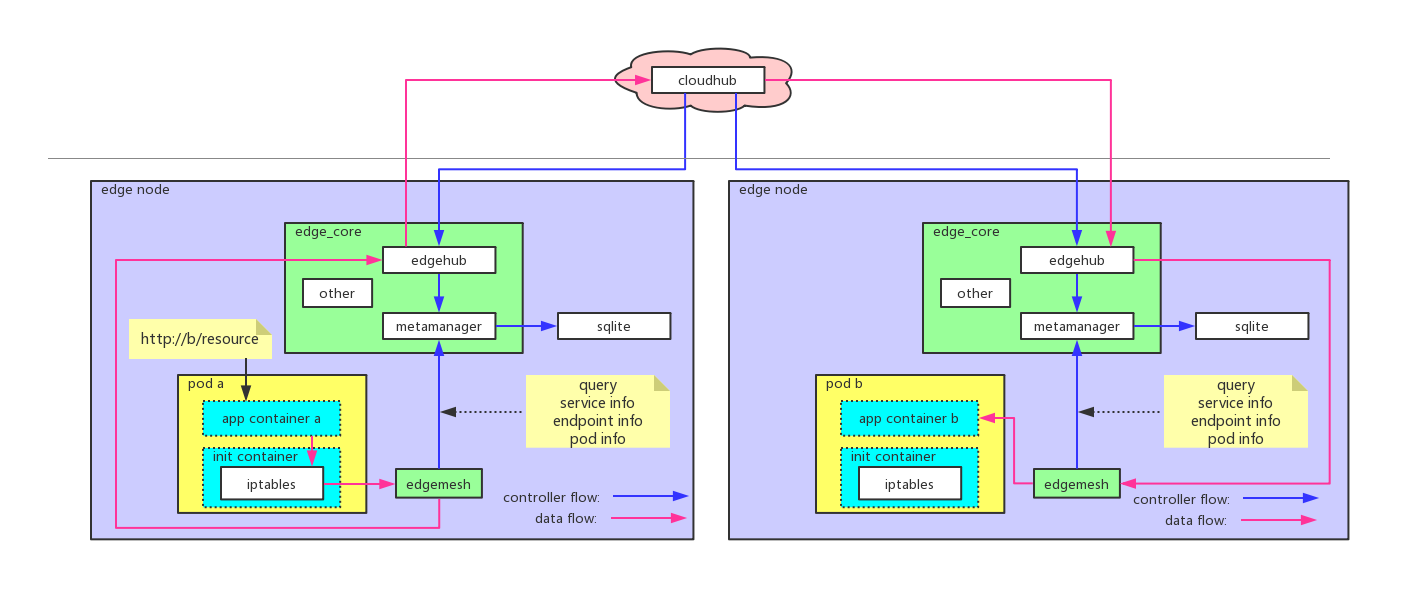
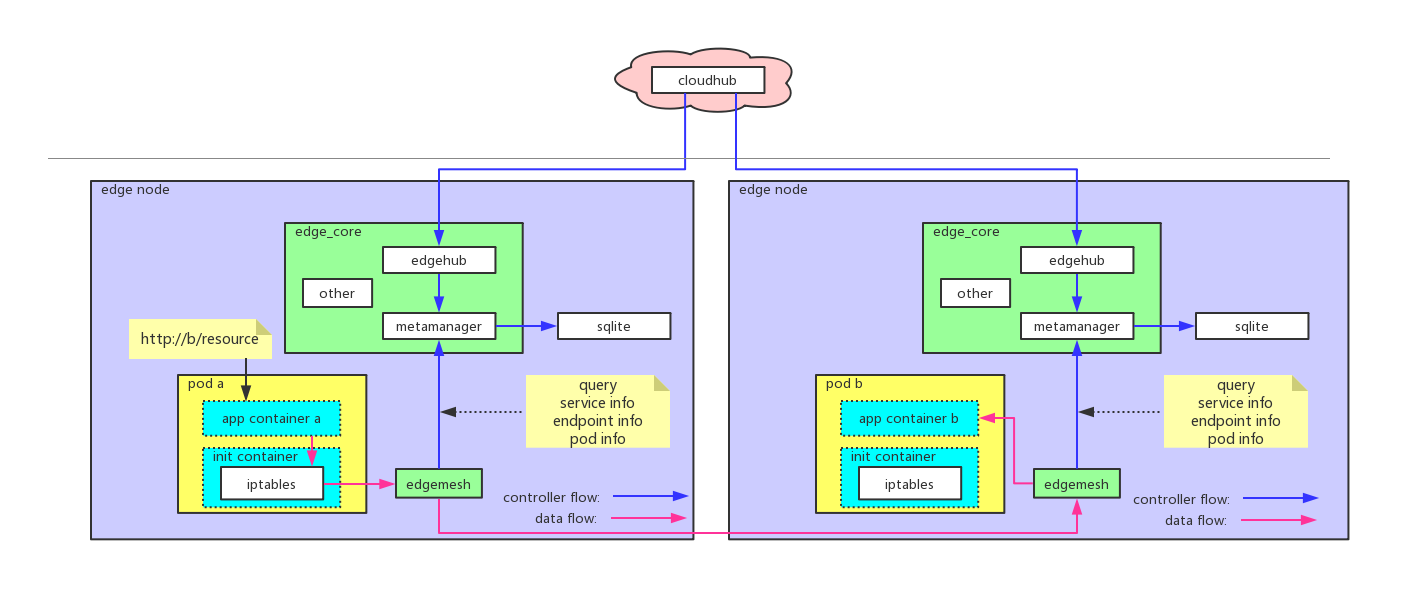
update design images

diff --git a/README.md b/README.md
@@ -1,11 +1,11 @@
 ## 用户体验
-云计算和边缘计算的蓬勃发展将千千万万的服务带到公众面前，用户只需要极少的时间和资源就可以搭建一套自己的人脸识别、轨迹分析等高端的系统。服务互访变得异常复杂。edgemesh的出现，可以让**边边**, **边云**，**云边**互访变得简单，就像下面这样：
+随着微服务框架的流行和边缘节点计算和网络能力的增强，把部分服务部署到边缘处理设备产生的数据轻松解决时延的问题。但由于安全等原因，大多数服务仍然运行在云上。**云**跟**边**、**边**跟**边**直接的协同是必须要解决的问题，edgemesh正是为此而生。用户通过**服务名称**来访问通过kubeedge部署的服务，甚至脱离于kubeedge的自维护服务，而不需要关心服务部署到哪里
 
 ![user view](docs/images/user%20view.jpg)
 
 ## 节点内协同
 
-![edge](docs/images/in_node.jpg)
+![edge](docs/images/inedge.jpg)
 
 ## 边边协同
 
